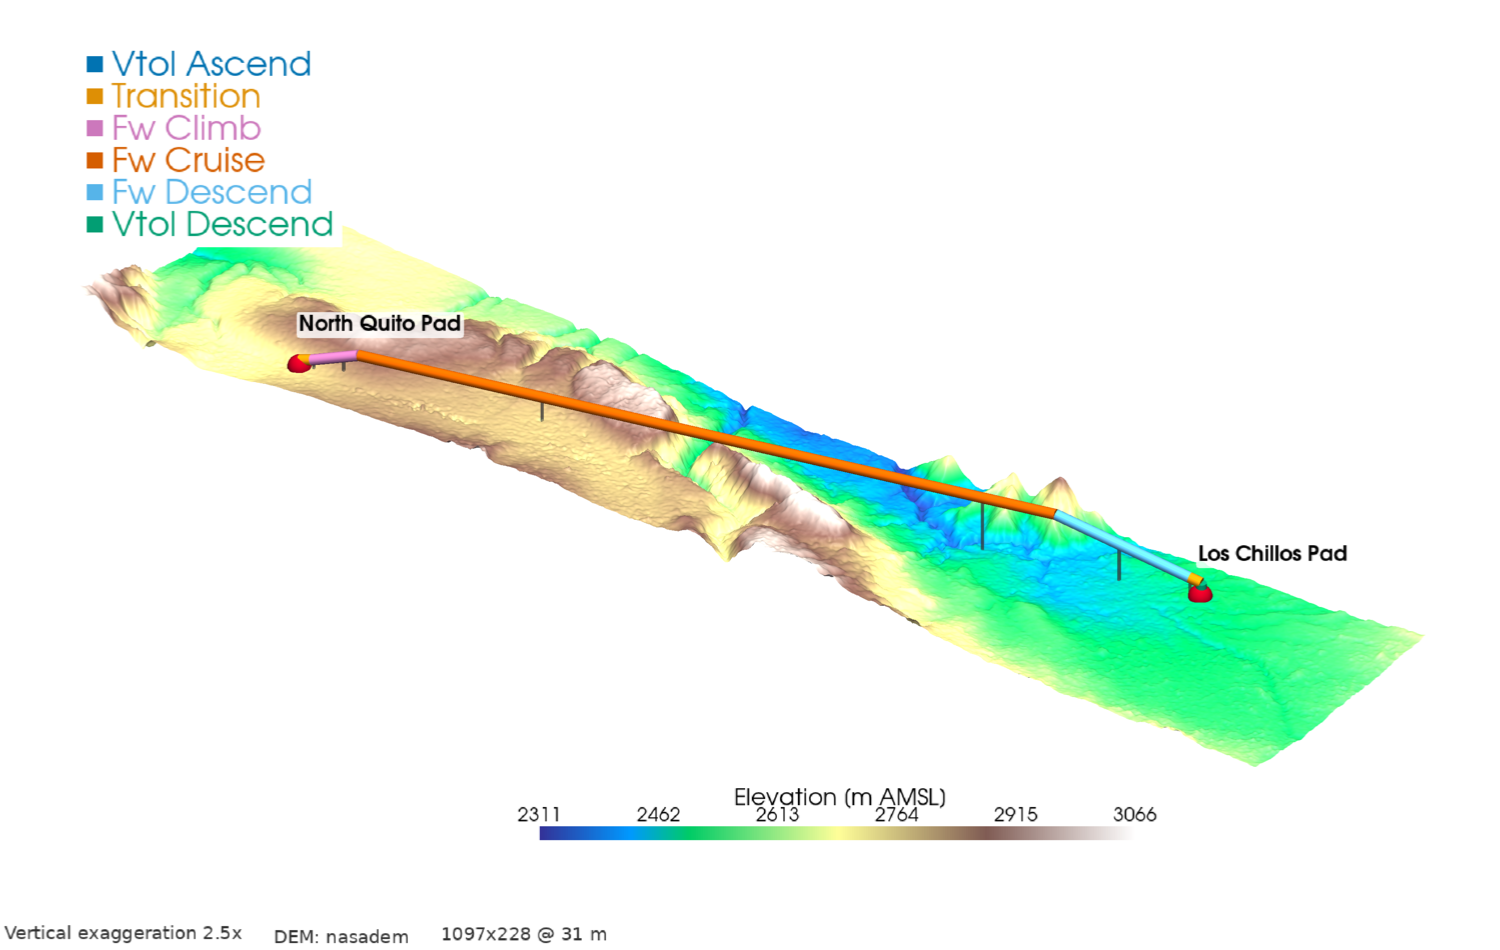
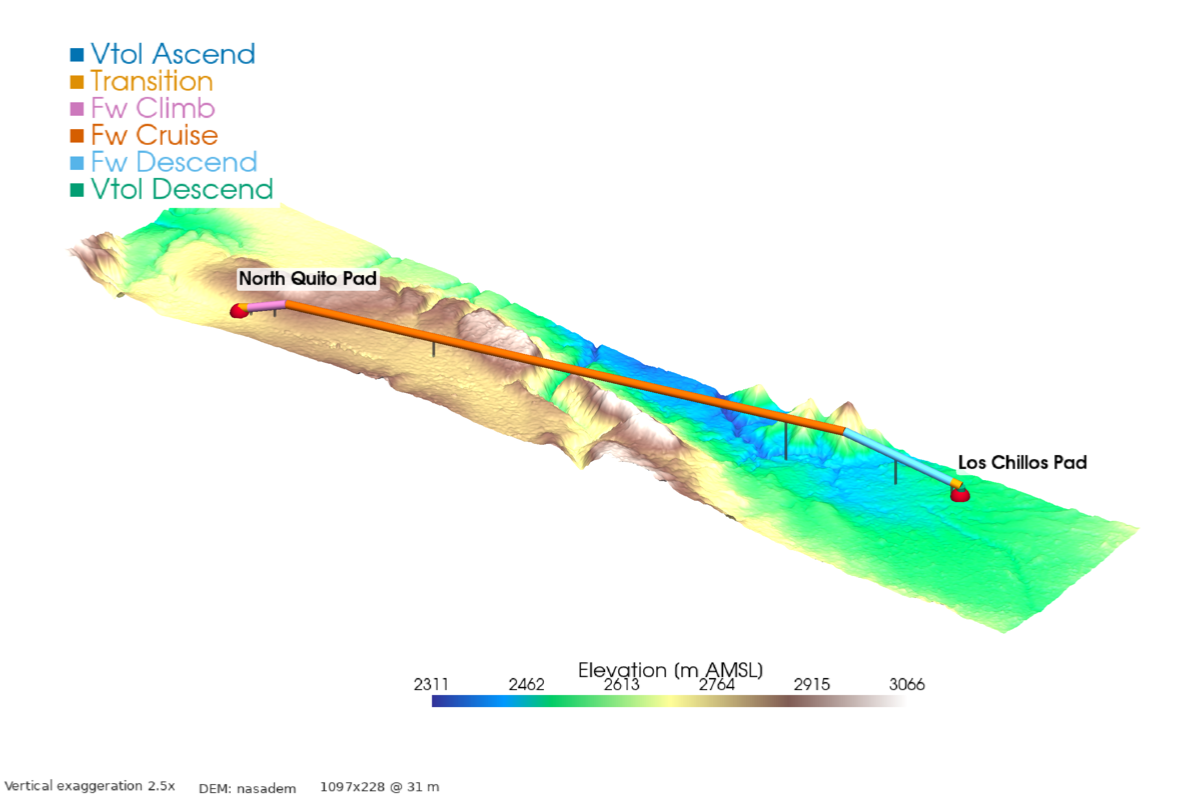
fix: shrink the interactive 3D pages, add a localhost server
The previous commit's StructuredGrid->PolyData conversion did NOT fix the
blank interactive viewer: a 7.8 MB corridor page regenerated with that fix
still opened to vtk.js's empty "drop a file" landing state, while the
1.1 MB aircraft page worked. The discriminator is scene size, not mesh
type. The docstring that claimed otherwise has been corrected rather than
left standing -- it was asserting a cure that did not work.

Two causes are plausible and I cannot run a browser here to separate them,
so both are addressed:

  Size. export_corridor_html() now builds its own lean scene instead of
  exporting the print plate's plotter. Terrain is decimated to 40k
  postings by striding (not smoothing -- the survivors keep their true
  measured elevations, so a decimated ridge is lower-resolution rather
  than shaved down, which matters for a clearance figure). The legend,
  colour bar, provenance line and labels are dropped: vtk.js has no
  equivalent of VTK's 2D overlay actors, so they never survived the export
  and only inflated the file.
      corridor  7.8 MB -> 2.69 MB
      newroute 12.8 MB -> 2.48 MB
  Static plates are untouched and keep every posting.

  file:// restrictions. Chromium gives disk-opened pages an opaque origin,
  which blocks Web Workers and cross-origin fetch. vtk.js fails silently
  under that and lands on exactly the observed empty state. Added
  hpraptor.postprocessing.serve -- `python -m hpraptor.postprocessing.serve`
[…]

diff --git a/hpraptor/postprocessing/trajectory_3d.py b/hpraptor/postprocessing/trajectory_3d.py
@@ -128,20 +128,21 @@ def _feature_radius(dem) -> float:
     return float(np.hypot(dlat, dlon)) / 260.0
 
 
-def terrain_surface(dem, frame: CorridorFrame):
+def terrain_surface(dem, frame: CorridorFrame, max_points: Optional[int] = None):
     """
     Build the terrain as PolyData, carrying true elevation.
 
-    Assembled as a StructuredGrid and immediately converted with
-    ``extract_surface()`` rather than handed to the plotter as-is.
-    StructuredGrid renders fine in the offscreen path this module's static
-    plates use, but PyVista's HTML/vtk.js exporter does not convert
-    StructuredGrid correctly -- confirmed against PyVista's own issue
-    tracker, and reproduced here: this corridor's grid is 195x631 =
-    123,045 points, comfortably past the exporter's working range, and the
-    interactive page it produced rendered blank. Every other mesh in this
-    module (tubes, discs, spheres) is already PolyData and exports fine,
-    which is what made the terrain the one suspect.
+    Assembled as a StructuredGrid and converted with ``extract_surface()``.
+    PolyData is what the rest of this module already produces (tubes,
+    discs, spheres) and what the HTML exporter handles best, so converting
+    keeps one mesh type throughout.
+
+    Note on the blank interactive page: converting to PolyData alone did
+    NOT fix it -- a 7.8 MB corridor page still opened to vtk.js's empty
+    "drop a file" state while the 1.1 MB aircraft page worked. The
+    discriminator is scene SIZE, not mesh type, which is what ``max_points``
+    is for. The conversion is kept because it is the right thing to do
+    regardless, not because it was the cure.
 
     Elevation is attached as a scalar *before* exaggeration is applied to
     the geometry, so the colour bar and any probe report real metres AMSL
@@ -152,6 +153,19 @@ def terrain_surface(dem, frame: CorridorFrame):
     lat_grid = np.asarray(dem.lat_grid, dtype=float)
     lon_grid = np.asarray(dem.lon_grid, dtype=float)
     elev = np.asarray(dem.elev_grid, dtype=float)
+
+    # Optional uniform decimation, used only by the interactive export.
+    # A print plate wants every posting; a browser scene wants to stay
+    # small enough to load. Striding rather than smoothing keeps the
+    # surviving samples at their true measured elevations instead of
+    # inventing averaged ones -- a decimated ridge is a lower-resolution
+    # ridge, not a smoothed-down one, which matters when the figure is
+    # about clearance.
+    if max_points is not None and lat_grid.size > max_points:
+        stride = int(np.ceil(np.sqrt(lat_grid.size / float(max_points))))
+        lat_grid = lat_grid[::stride, ::stride]
+        lon_grid = lon_grid[::stride, ::stride]
+        elev = elev[::stride, ::stride]
 
     x, y, z = frame.to_xyz(lat_grid, lon_grid, elev)
     grid = pv.StructuredGrid(x, y, z)
@@ -474,18 +488,89 @@ def render_corridor_3d(
     plotter.screenshot(str(out), scale=1,
                        transparent_background=transparent_background)
 
-    # The same scene, exported as a self-contained vtk.js page. The static
-    # plate is what a paper prints, but "does it actually clear the ridge?"
-    # is a question about occlusion from angles the plate does not show, and
-    # the honest answer is to let the reader rotate it. Only the 3D actors
-    # survive the export -- vtk.js has no equivalent of VTK's 2D overlay
-    # actors -- so the legend, colour bar and provenance line are not in the
-    # HTML. That is why it is an addition to the plate, not a replacement.
-    if html_path is not None:
-        html_out = Path(html_path)
-        html_out.parent.mkdir(parents=True, exist_ok=True)
-        plotter.export_html(str(html_out))
+    plotter.close()
 
+    # The interactive page is built separately rather than exported from
+    # the plate's own plotter. It is a different product with different
+    # limits: it must stay small enough for a browser to load, and its 2D
+    # overlays would not survive the export anyway. See
+    # export_corridor_html.
+    if html_path is not None:
+        export_corridor_html(dem, path=path, nodes=nodes,
+                             save_path=html_path, exaggeration=exaggeration,
+                             cmap=cmap, show_droplines=show_droplines)
+
+    return str(out)
+
+
+#: Terrain postings kept in the interactive scene. The full 195x631 corridor
+#: is 123,045 points and produced a 7.8 MB page that Edge opened to vtk.js's
+#: empty "drop a file" state; the 1.1 MB aircraft page, at 5,010 points,
+#: loads fine. Size is the discriminator, so the browser scene is capped.
+#: The static plates are unaffected and keep every posting.
+HTML_MAX_TERRAIN_POINTS = 40_000
+
+
+def export_corridor_html(dem, path=None, nodes: Optional[Sequence] = None,
+                         save_path: str = "reports/corridor_3d_interactive.html",
+                         exaggeration: float = 2.5,
+                         cmap: str = "terrain",
+                         show_droplines: bool = True,
+                         max_terrain_points: int = HTML_MAX_TERRAIN_POINTS) -> str:
+    """
+    Write a self-contained, rotatable vtk.js page of the corridor.
+
+    Deliberately leaner than the print plate. The terrain is decimated to
+    ``max_terrain_points``, and the legend, colour bar, provenance line and
+    facility labels are omitted -- vtk.js has no equivalent of VTK's 2D
+    overlay actors, so those never survived the export in the first place;
+    building them only inflated the file.
+
+    Serve it over http rather than opening it from disk if it will not
+    load: Chromium blocks a range of operations under ``file://``, and a
+    one-line ``python -m http.server`` in the reports directory sidesteps
+    that entirely.
+    """
+    pv = _require_pyvista()
+
+    lat0 = float(np.mean(dem.lat_grid))
+    lon0 = float(np.mean(dem.lon_grid))
+    frame = CorridorFrame(lat0=lat0, lon0=lon0, exaggeration=exaggeration)
+
+    plotter = pv.Plotter(off_screen=True, window_size=[1280, 800])
+    plotter.set_background("white")
+
+    surf = terrain_surface(dem, frame, max_points=max_terrain_points)
+    plotter.add_mesh(surf, scalars="Elevation [m AMSL]", cmap=cmap,
+                     smooth_shading=True, show_scalar_bar=False)
+
+    if path is not None:
+        radius = _feature_radius(dem)
+        if show_droplines:
+            stems, _ = clearance_droplines(path, dem, frame,
+                                           radius=radius * 0.30)
+            if stems is not None:
+                plotter.add_mesh(stems, color="#444444")
+        for name, tube in path_tubes(path, frame, radius=radius):
+            plotter.add_mesh(tube, color=SEGMENT_COLORS.get(name, "#333333"),
+                             smooth_shading=True)
+
+    if nodes:
+        r = _feature_radius(dem) * 2.2
+        for nd in nodes:
+            lat, lon = (float(nd[0]), float(nd[1])) if isinstance(
+                nd, (tuple, list)) else (float(nd.lat), float(nd.lon))
+            ground = float(dem.elevation(lat, lon))
+            x, y, z = frame.to_xyz(lat, lon, ground)
+            plotter.add_mesh(
+                pv.Sphere(radius=r, center=(float(x), float(y), float(z))),
+                color="#B00020")
+
+    plotter.view_isometric()
+
+    out = Path(save_path)
+    out.parent.mkdir(parents=True, exist_ok=True)
+    plotter.export_html(str(out))
     plotter.close()
     return str(out)
 

diff --git a/hpraptor/postprocessing/serve.py b/hpraptor/postprocessing/serve.py
@@ -1,0 +1,76 @@
+"""
+Serve the reports directory over http, for viewing the interactive pages.
+
+Why this exists rather than just double-clicking the file: Chromium
+browsers (Edge, Chrome) apply a stricter security model to ``file://``
+than to ``http://``. Pages opened from disk get an opaque origin, which
+blocks Web Workers, cross-origin ``fetch``, and several storage APIs. A
+vtk.js scene that fails to load under those restrictions does not raise
+anything visible -- the viewer simply stays on its empty "drop a file"
+landing state, which looks identical to a broken export.
+
+Serving the same file over ``http://localhost`` gives it a real origin and
+removes that whole class of failure. If a page works here but not from
+disk, the file was never the problem.
+
+Usage
+-----
+    python -m hpraptor.postprocessing.serve
+    python -m hpraptor.postprocessing.serve --dir reports --port 8000 --open
+"""
+
+from __future__ import annotations
+
+import argparse
+import http.server
+import socketserver
+import functools
+import webbrowser
+from pathlib import Path
+
+
+def serve(directory: str = "reports", port: int = 8000,
+          open_browser: bool = False) -> None:
+    """Serve ``directory`` on localhost until interrupted."""
+    root = Path(directory).resolve()
+    if not root.is_dir():
+        raise SystemExit(f"not a directory: {root}")
+
+    handler = functools.partial(http.server.SimpleHTTPRequestHandler,
+                                directory=str(root))
+    # Without this, restarting quickly after Ctrl+C fails with "address
+    # already in use" while the socket sits in TIME_WAIT.
+    socketserver.TCPServer.allow_reuse_address = True
+
+    with socketserver.TCPServer(("127.0.0.1", port), handler) as httpd:
+        base = f"http://localhost:{port}/"
+        print(f"Serving {root}")
+        print(f"  {base}")
+        pages = sorted(root.glob("*_interactive.html"))
+        for p in pages:
+            print(f"  {base}{p.name}")
+        if not pages:
+            print("  (no *_interactive.html found -- generate one first)")
+        print("\nCtrl+C to stop.")
+        if open_browser and pages:
+            webbrowser.open(f"{base}{pages[0].name}")
+        try:
+            httpd.serve_forever()
+        except KeyboardInterrupt:
+            print("\nstopped.")
+
+
+def main():
+    p = argparse.ArgumentParser(
+        description="Serve reports/ over http so the interactive 3D pages "
+                    "load without file:// restrictions.")
+    p.add_argument("--dir", default="reports", help="directory to serve")
+    p.add_argument("--port", type=int, default=8000)
+    p.add_argument("--open", action="store_true",
+                   help="open the first interactive page in a browser")
+    args = p.parse_args()
+    serve(args.dir, args.port, args.open)
+
+
+if __name__ == "__main__":
+    main()

diff --git a/setup.py b/setup.py
@@ -64,6 +64,7 @@ setup(
             "hpraptor-mdao=hpraptor_mdao.run:main",
             "hpraptor-dem=hpraptor.m1_mission.srtm_downloader:main",
             "hpraptor-3d=hpraptor.postprocessing.trajectory_3d:main",
+            "hpraptor-serve=hpraptor.postprocessing.serve:main",
         ],
     },
 )
